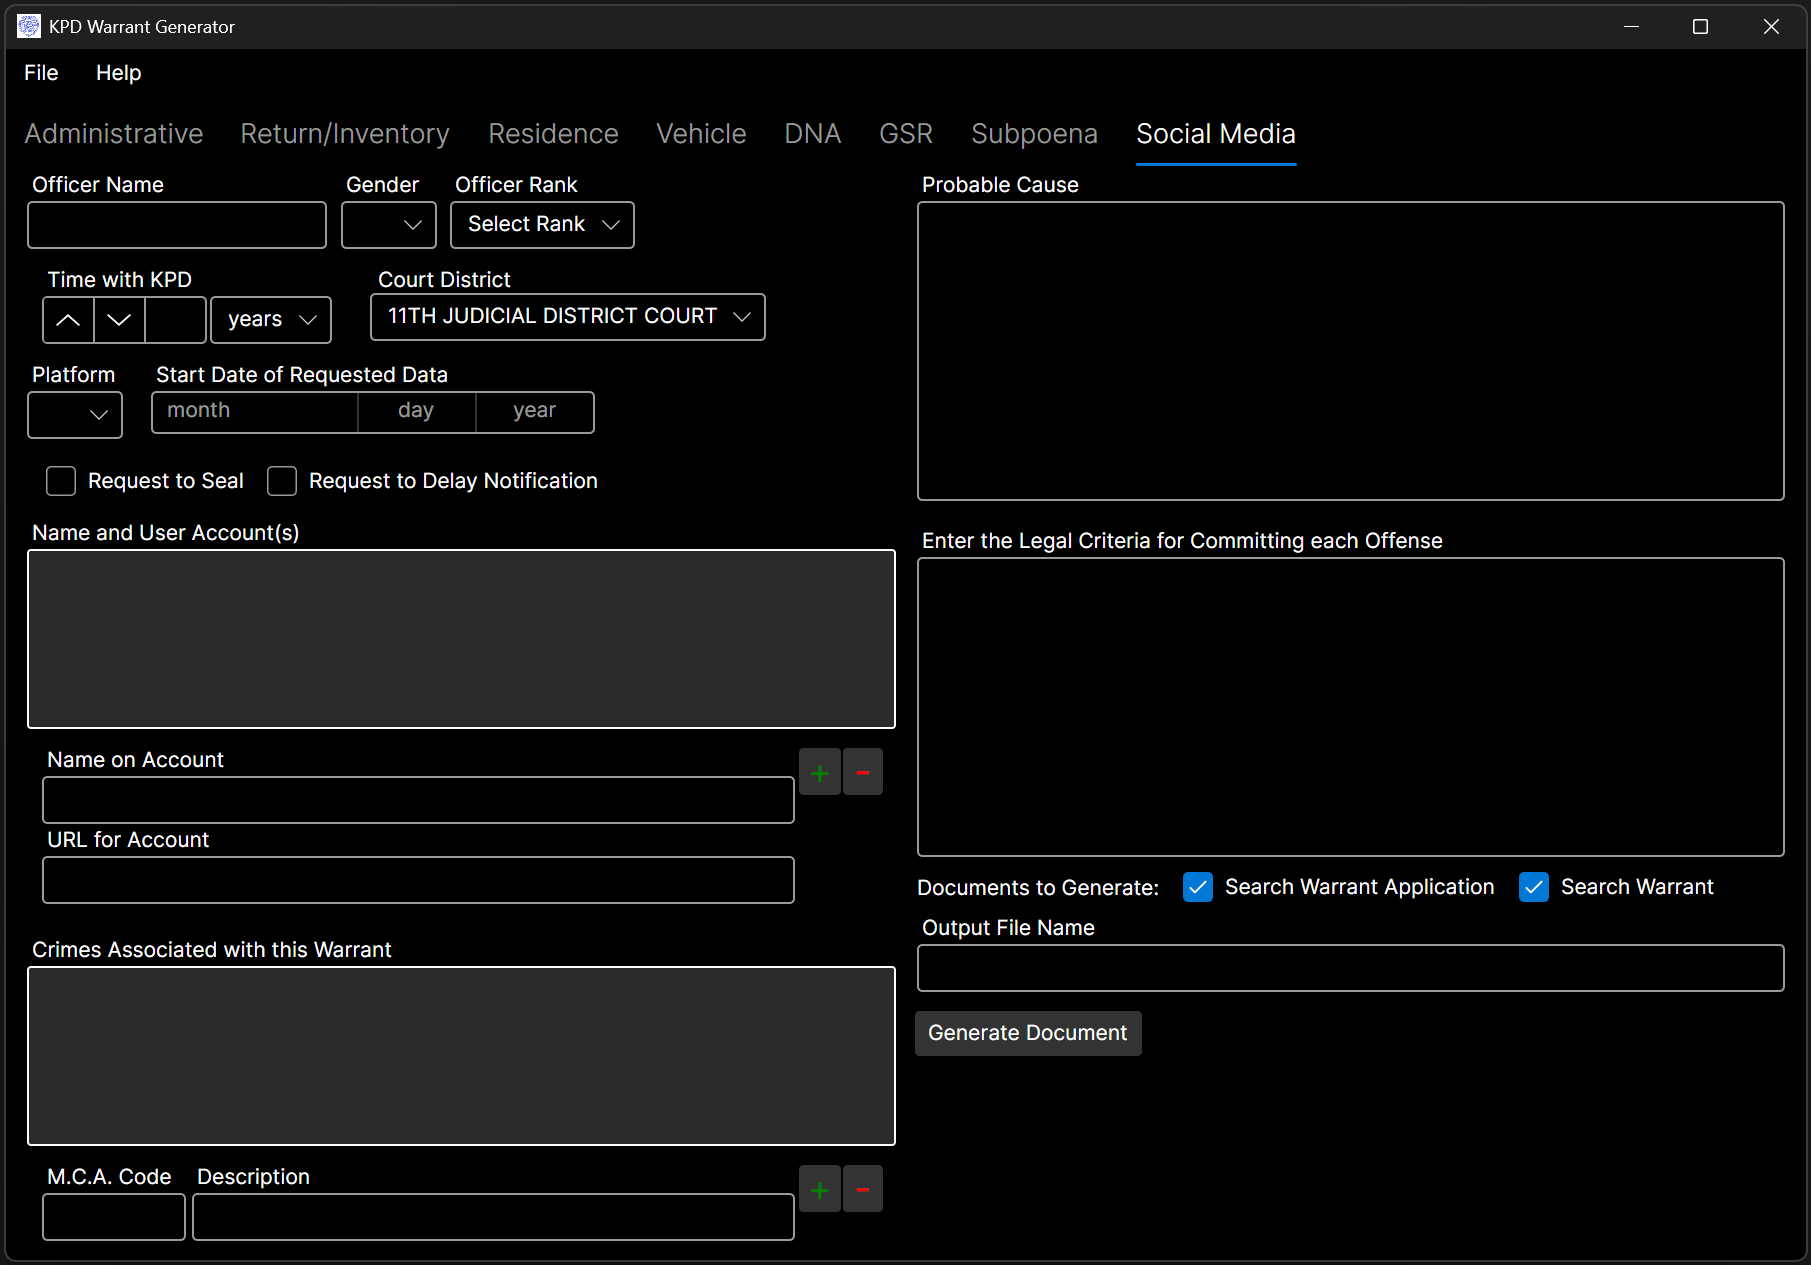
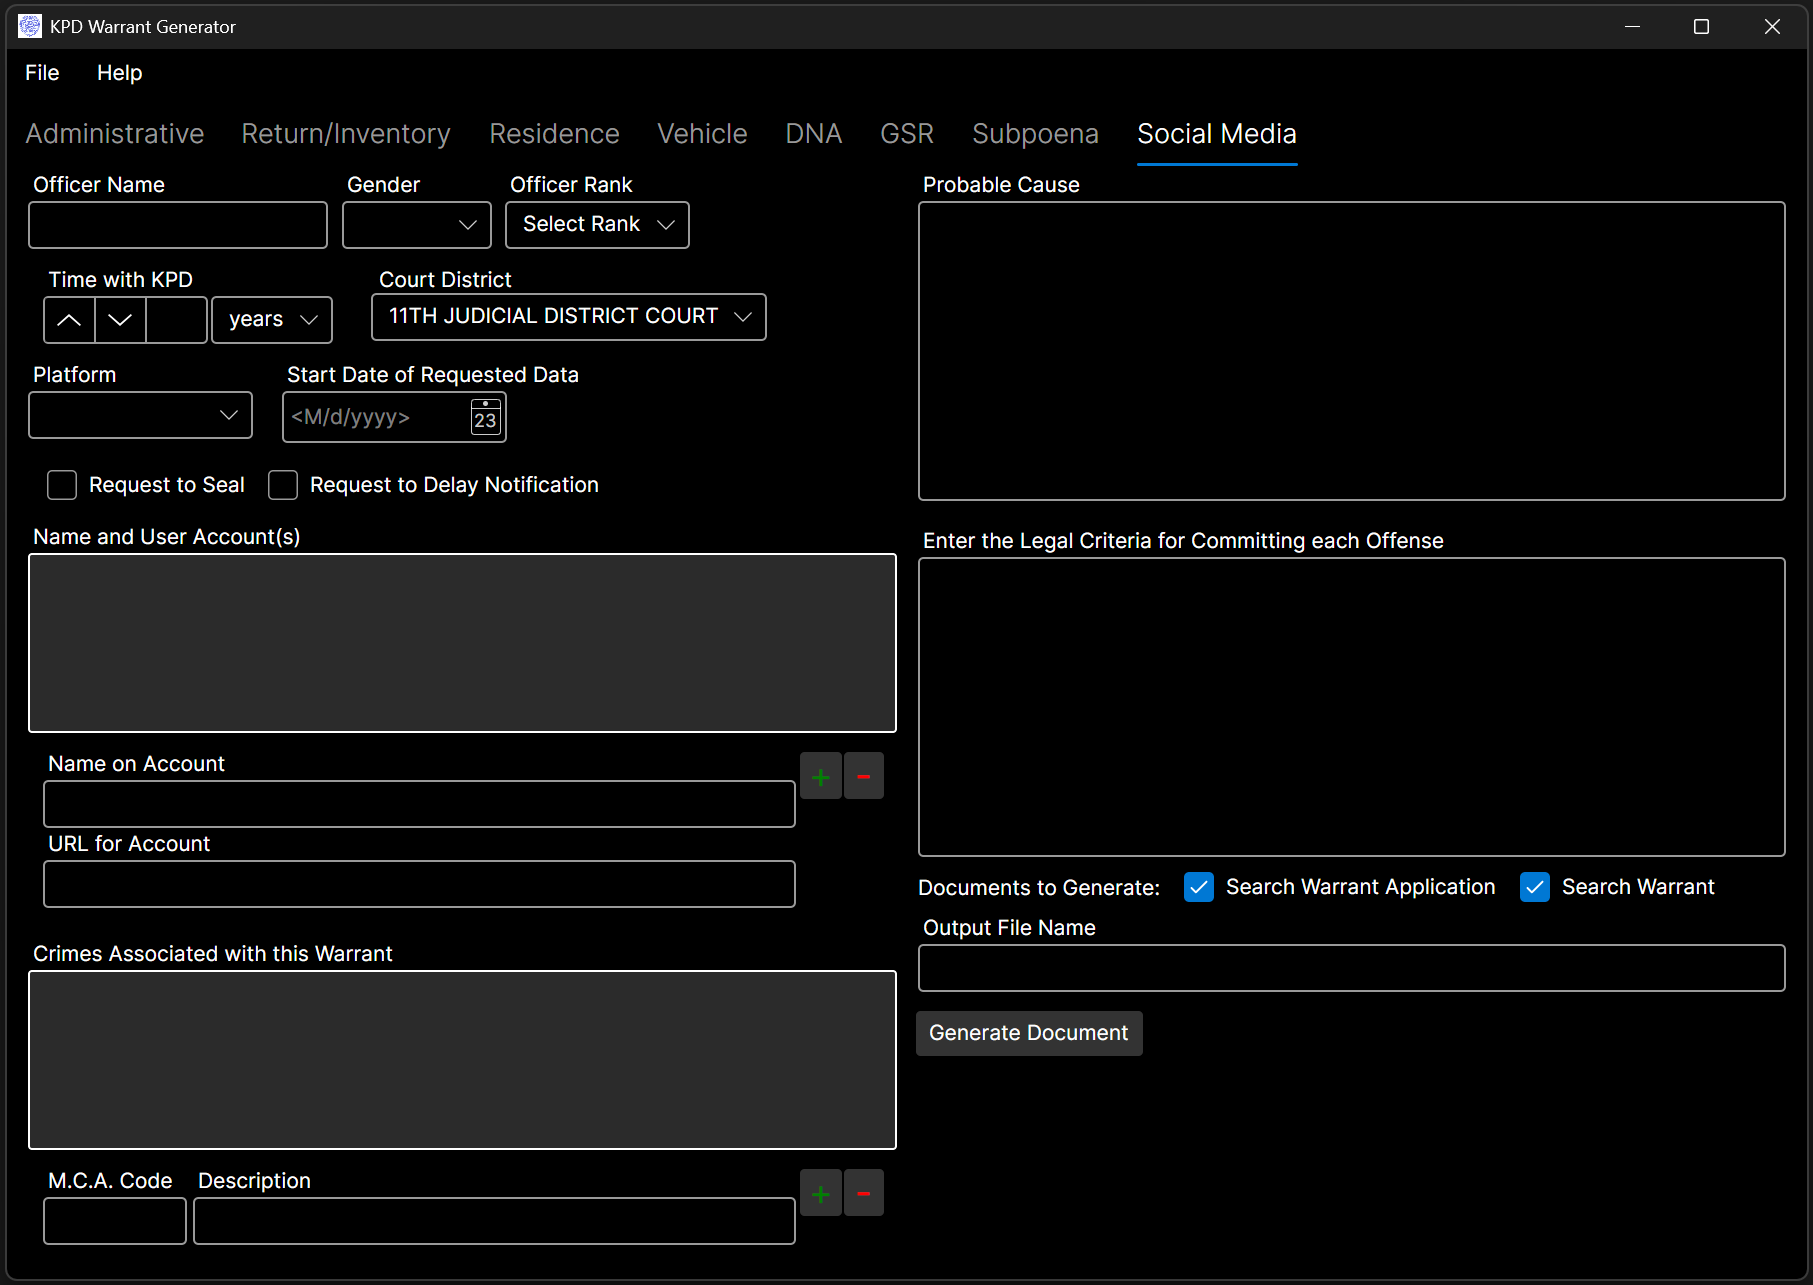
Switch to better date picker, formatting, update screenshot.

diff --git a/ViewModels/ReturnInventoryContentViewModel.cs b/ViewModels/ReturnInventoryContentViewModel.cs
@@ -105,9 +105,9 @@ public partial class ReturnInventoryContentViewModel : ObservableObject, IHasOff
     private IBrush _signedDateBorder = Brushes.Transparent;
 
     [ObservableProperty]
-    private DateTimeOffset? _signedDateSelection = null;
+    private DateTime? _signedDateSelection = null;
 
-    partial void OnSignedDateSelectionChanged(DateTimeOffset? value)
+    partial void OnSignedDateSelectionChanged(DateTime? value)
     {
         SignedDateBorder = Brushes.Transparent;
     }
@@ -116,9 +116,9 @@ public partial class ReturnInventoryContentViewModel : ObservableObject, IHasOff
     private IBrush _servedDateBorder = Brushes.Transparent;
 
     [ObservableProperty]
-    private DateTimeOffset? _servedDateSelection = null;
+    private DateTime? _servedDateSelection = null;
 
-    partial void OnServedDateSelectionChanged(DateTimeOffset? value)
+    partial void OnServedDateSelectionChanged(DateTime? value)
     {
         ServedDateBorder = Brushes.Transparent;
     }

diff --git a/DTOs/ContentFormatting.cs b/DTOs/ContentFormatting.cs
@@ -12,16 +12,16 @@ public static class FormattedContent
 {
     public static string FormattedDateString()
     {
-        DateTimeOffset now = DateTime.Now;
+        DateTime now = DateTime.Now;
         return $"{now.Day}{GetDayOrdinal(now)} day of {now:MMMM, yyyy}";
     }
 
-    public static string FormattedDateString(DateTimeOffset date)
+    public static string FormattedDateString(DateTime date)
     {
         return $"{date.Day}{GetDayOrdinal(date)} day of {date:MMMM, yyyy}";
     }
 
-    private static string GetDayOrdinal(DateTimeOffset date)
+    private static string GetDayOrdinal(DateTime date)
     {
         return date.Day switch
         {
@@ -163,7 +163,7 @@ public static class FormattedContent
         return combined;
     }
 
-    public static string ShortDateString(DateTimeOffset date)
+    public static string ShortDateString(DateTime date)
     {
         return $"{date:M/d/yyyy}";
     }

diff --git a/ViewModels/SubpoenaContentViewModel.cs b/ViewModels/SubpoenaContentViewModel.cs
@@ -21,9 +21,9 @@ public partial class SubpoenaContentViewModel : ObservableObject
     private IBrush _trappedDateBorder = Brushes.Transparent;
 
     [ObservableProperty]
-    private DateTimeOffset? _trappedDateSelection = null;
+    private DateTime? _trappedDateSelection = null;
 
-    partial void OnTrappedDateSelectionChanged(DateTimeOffset? value)
+    partial void OnTrappedDateSelectionChanged(DateTime? value)
     {
         TrappedDateBorder = Brushes.Transparent;
     }
@@ -120,7 +120,7 @@ public partial class SubpoenaContentViewModel : ObservableObject
     private IBrush _cityStateZipBorder = Brushes.Transparent;
 
     [ObservableProperty]
-    private string _cityStateZipText = string.Empty;
+    private string _cityStateZipText = "Kalispell, MT 59901";
 
     partial void OnCityStateZipTextChanged(string value)
     {

diff --git a/ViewModels/SocialMediaContentViewModel.cs b/ViewModels/SocialMediaContentViewModel.cs
@@ -117,9 +117,9 @@ public partial class SocialMediaContentViewModel : ObservableObject, IHasOfficer
     private IBrush _startDateBorder = Brushes.Transparent;
 
     [ObservableProperty]
-    private DateTimeOffset? _startDateSelection = null;
+    private DateTime? _startDateSelection = null;
 
-    partial void OnStartDateSelectionChanged(DateTimeOffset? value)
+    partial void OnStartDateSelectionChanged(DateTime? value)
     {
         StartDateBorder = Brushes.Transparent;
     }
